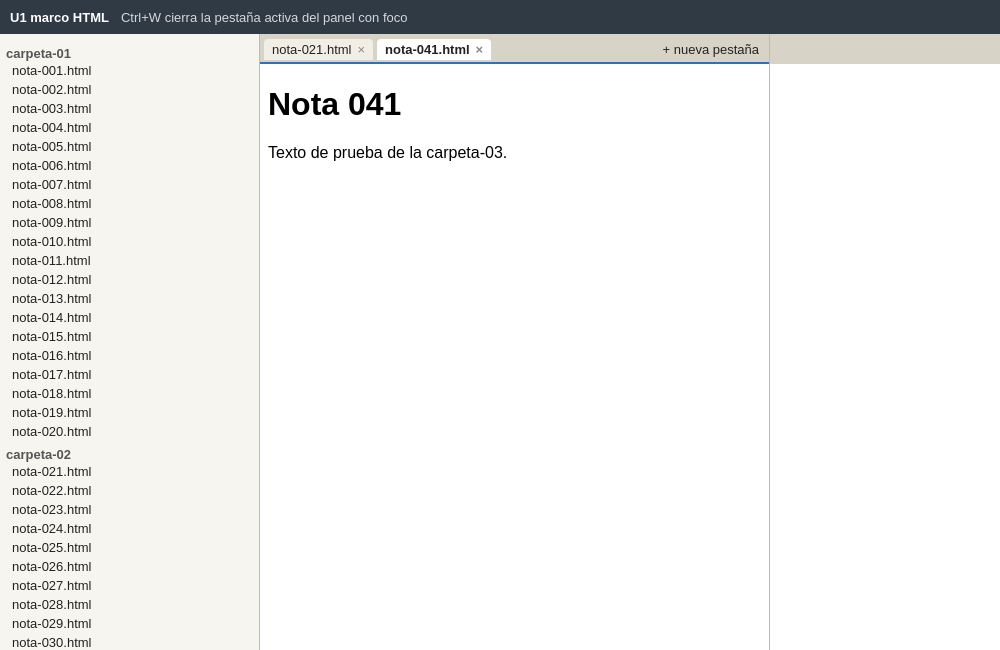
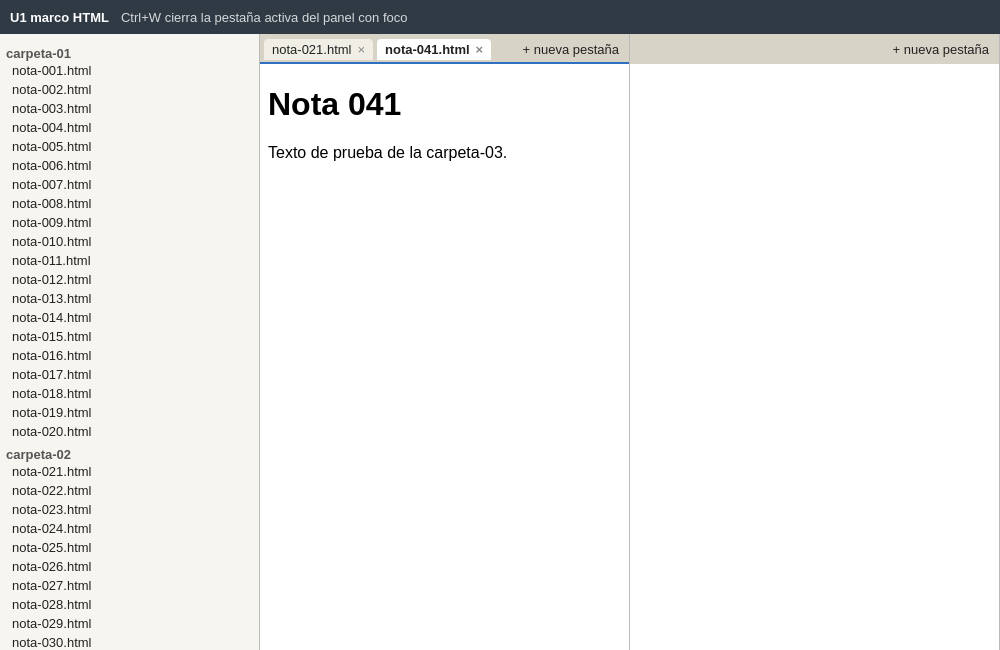
Spikes: U1 frame as an overlay base layer, and --marco to swap frame implementations

Changed region(s): [[0.899, 0.0615, 1.0, 1.0], [0.682, 0.0615, 0.775, 0.1231], [0.527, 0.0615, 0.62, 0.0923]]

diff --git a/spikes/u1-marco-html/src/main.rs b/spikes/u1-marco-html/src/main.rs
@@ -374,23 +374,43 @@ fn main() -> Result<(), Box<dyn std::error::Error>> {
         .with_decorations(false)
         .build(&event_loop)?;
 
+    // The frame is the overlay's main child, so it follows the window size and sets no minimum.
+    // Pages live in a Fixed overlay: overlay children do not count towards the window's size request.
+    let capas = gtk::Overlay::new();
+    let base = gtk::Box::new(gtk::Orientation::Vertical, 0);
     let fijo = gtk::Fixed::new();
-    ventana.default_vbox().ok_or("tao no expone la caja GTK")?.add(&fijo);
-    fijo.show_all();
+    capas.add(&base);
+    capas.add_overlay(&fijo);
+    capas.set_overlay_pass_through(&fijo, true);
+    let caja_tao = ventana.default_vbox().ok_or("tao no expone la caja GTK")?;
+    caja_tao.pack_start(&capas, true, true, 0);
+    capas.show_all();
     vistas.borrow_mut().fijo = Some(fijo.clone());
 
-    let url_marco = format!("http://127.0.0.1:{puerto}/marco.html");
+    // `--marco simple|react|svelte`: the same IPC protocol, three implementations of the frame.
+    let marco_elegido = args.iter().position(|a| a == "--marco").and_then(|i| args.get(i + 1)).map(String::as_str).unwrap_or("simple");
+    let ruta_marco = match marco_elegido {
+        "simple" => "marco.html",
+        "react" => "react/index.html",
+        "svelte" => "svelte/index.html",
+        otro => return Err(format!("--marco acepta simple, react o svelte, no {otro}").into()),
+    };
+    let url_marco = format!("http://127.0.0.1:{puerto}/{ruta_marco}");
+    // The built frames live in their own folder and may navigate inside it; the simple one is a single file.
+    let prefijo_marco = match ruta_marco.rsplit_once('/') {
+        Some((dir, _)) => format!("http://127.0.0.1:{puerto}/{dir}/"),
+        None => url_marco.clone(),
+    };
     let est_m = estado.clone();
     let vis_m = vistas.clone();
     let marco = WebViewBuilder::new()
         .with_url(&url_marco)
-        .with_bounds(caja(0.0, 0.0, 1280.0, 800.0))
         .with_navigation_handler({
-            let prefijo = url_marco.clone();
+            let prefijo = prefijo_marco.clone();
             move |url: String| url.starts_with(&prefijo)
         })
         .with_ipc_handler(move |req| mensaje_marco(&est_m, &vis_m, req.body()))
-        .build_gtk(&fijo)?;
+        .build_gtk(&base)?;
     vistas.borrow_mut().marco = Some(marco);
 
     for lado in 0..2usize {
@@ -426,12 +446,6 @@ fn main() -> Result<(), Box<dyn std::error::Error>> {
         match event {
             Event::UserEvent(Hacer(tarea)) => tarea(&compartido),
             Event::WindowEvent { event: WindowEvent::CloseRequested, .. } => *control = ControlFlow::Exit,
-            Event::WindowEvent { event: WindowEvent::Resized(size), .. } => {
-                let s = size.to_logical::<f64>(compartido.ventana.scale_factor());
-                if let Some(m) = &compartido.vis.borrow().marco {
-                    let _ = m.set_bounds(caja(0.0, 0.0, s.width, s.height));
-                }
-            }
             _ => {}
         }
         let _ = &compartido;

diff --git a/spikes/u1-marco-html/src/server.rs b/spikes/u1-marco-html/src/server.rs
@@ -59,6 +59,12 @@ fn tipo_de(ruta: &str) -> &'static str {
         "text/javascript; charset=utf-8"
     } else if ruta.ends_with(".html") {
         "text/html; charset=utf-8"
+    } else if ruta.ends_with(".css") {
+        "text/css; charset=utf-8"
+    } else if ruta.ends_with(".svg") {
+        "image/svg+xml"
+    } else if ruta.ends_with(".woff2") {
+        "font/woff2"
     } else {
         "application/octet-stream"
     }
